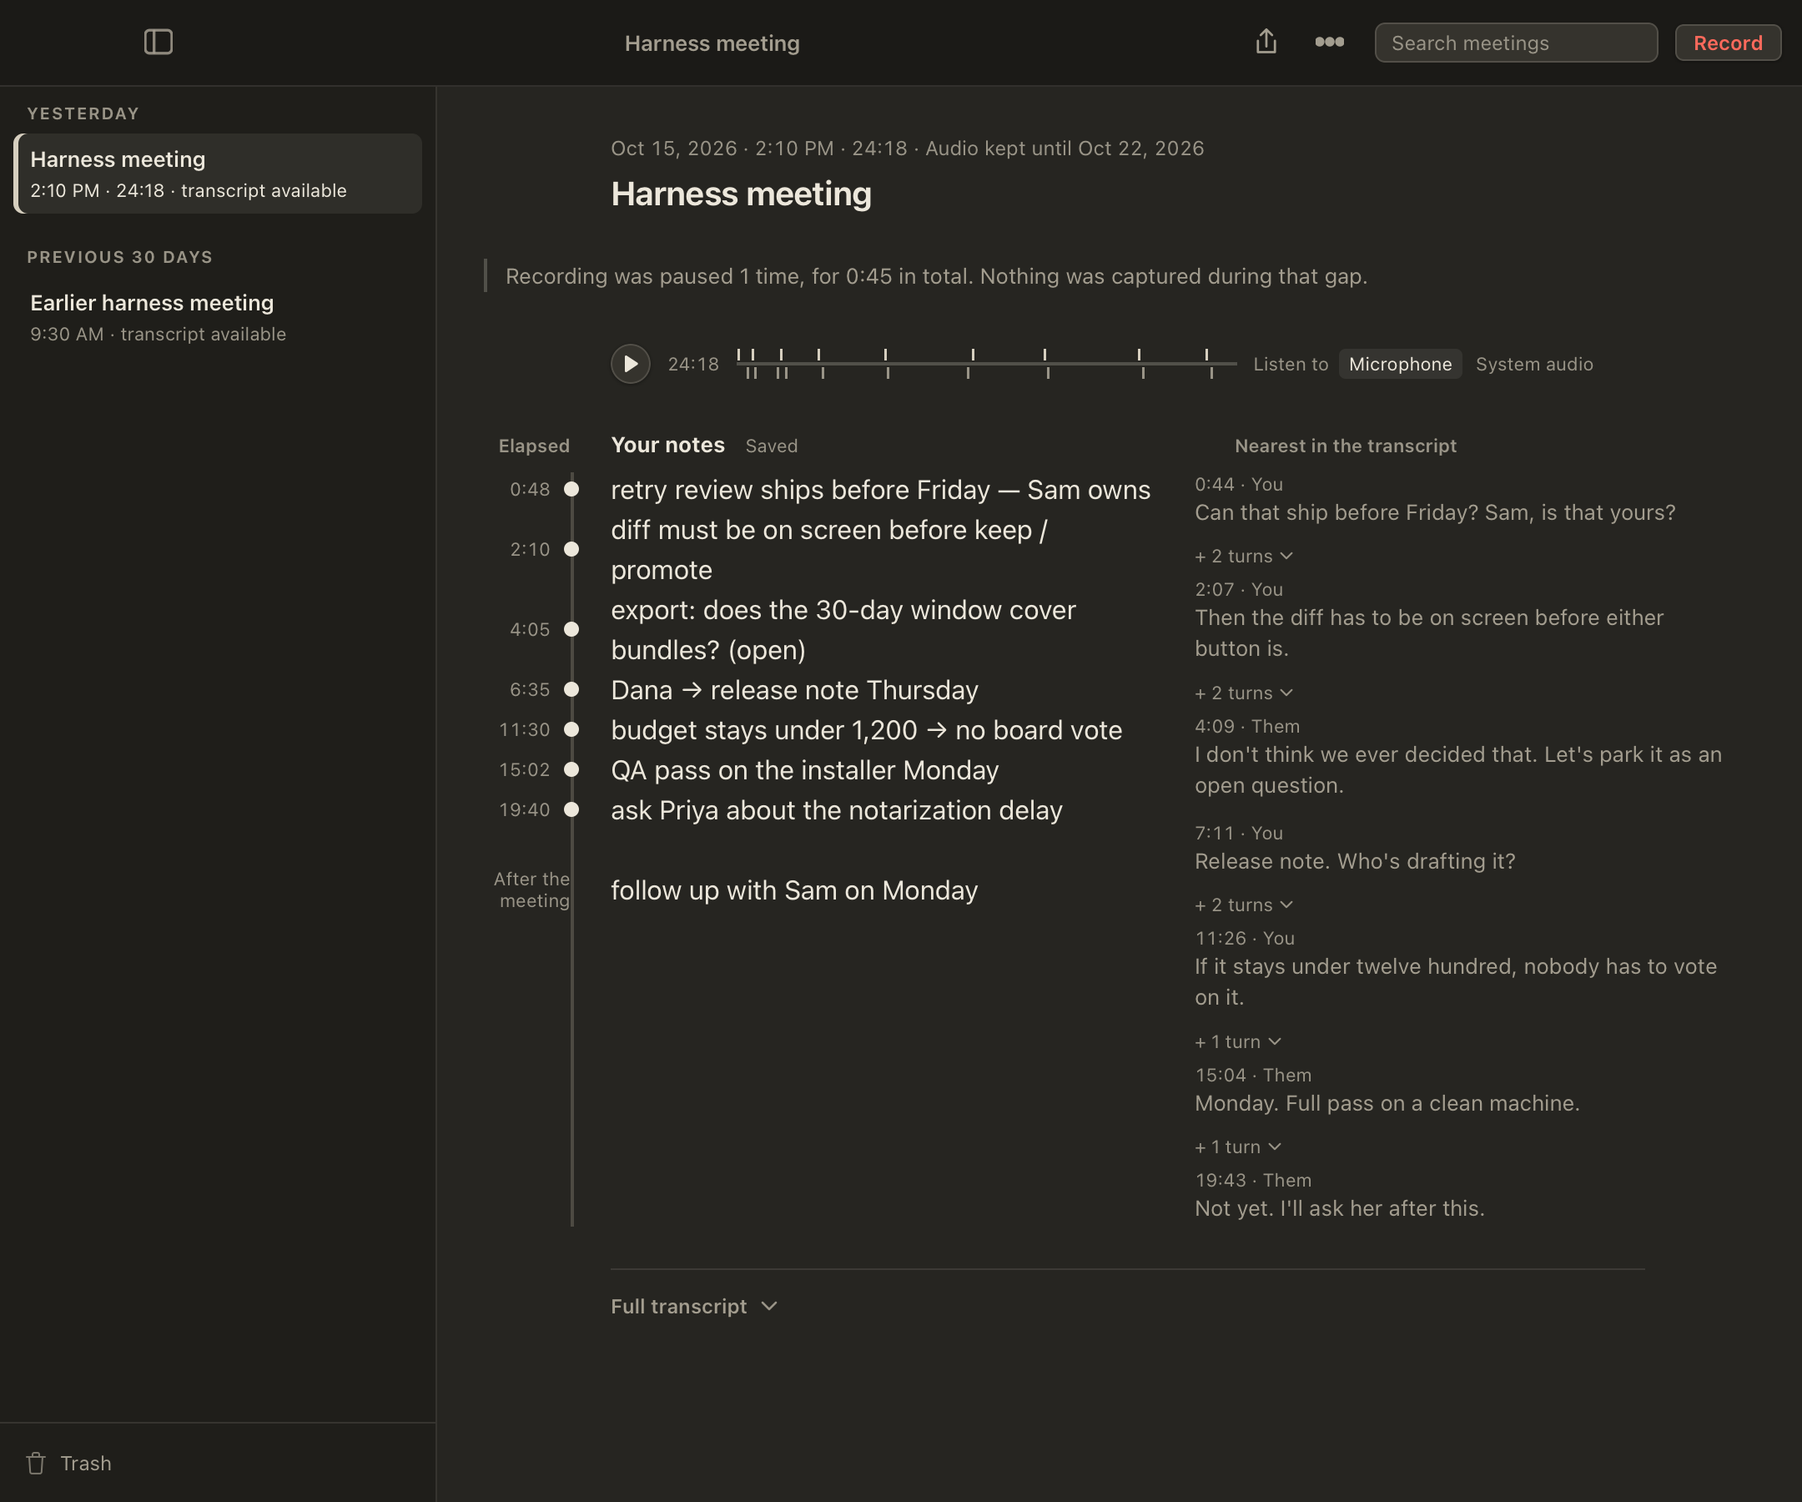
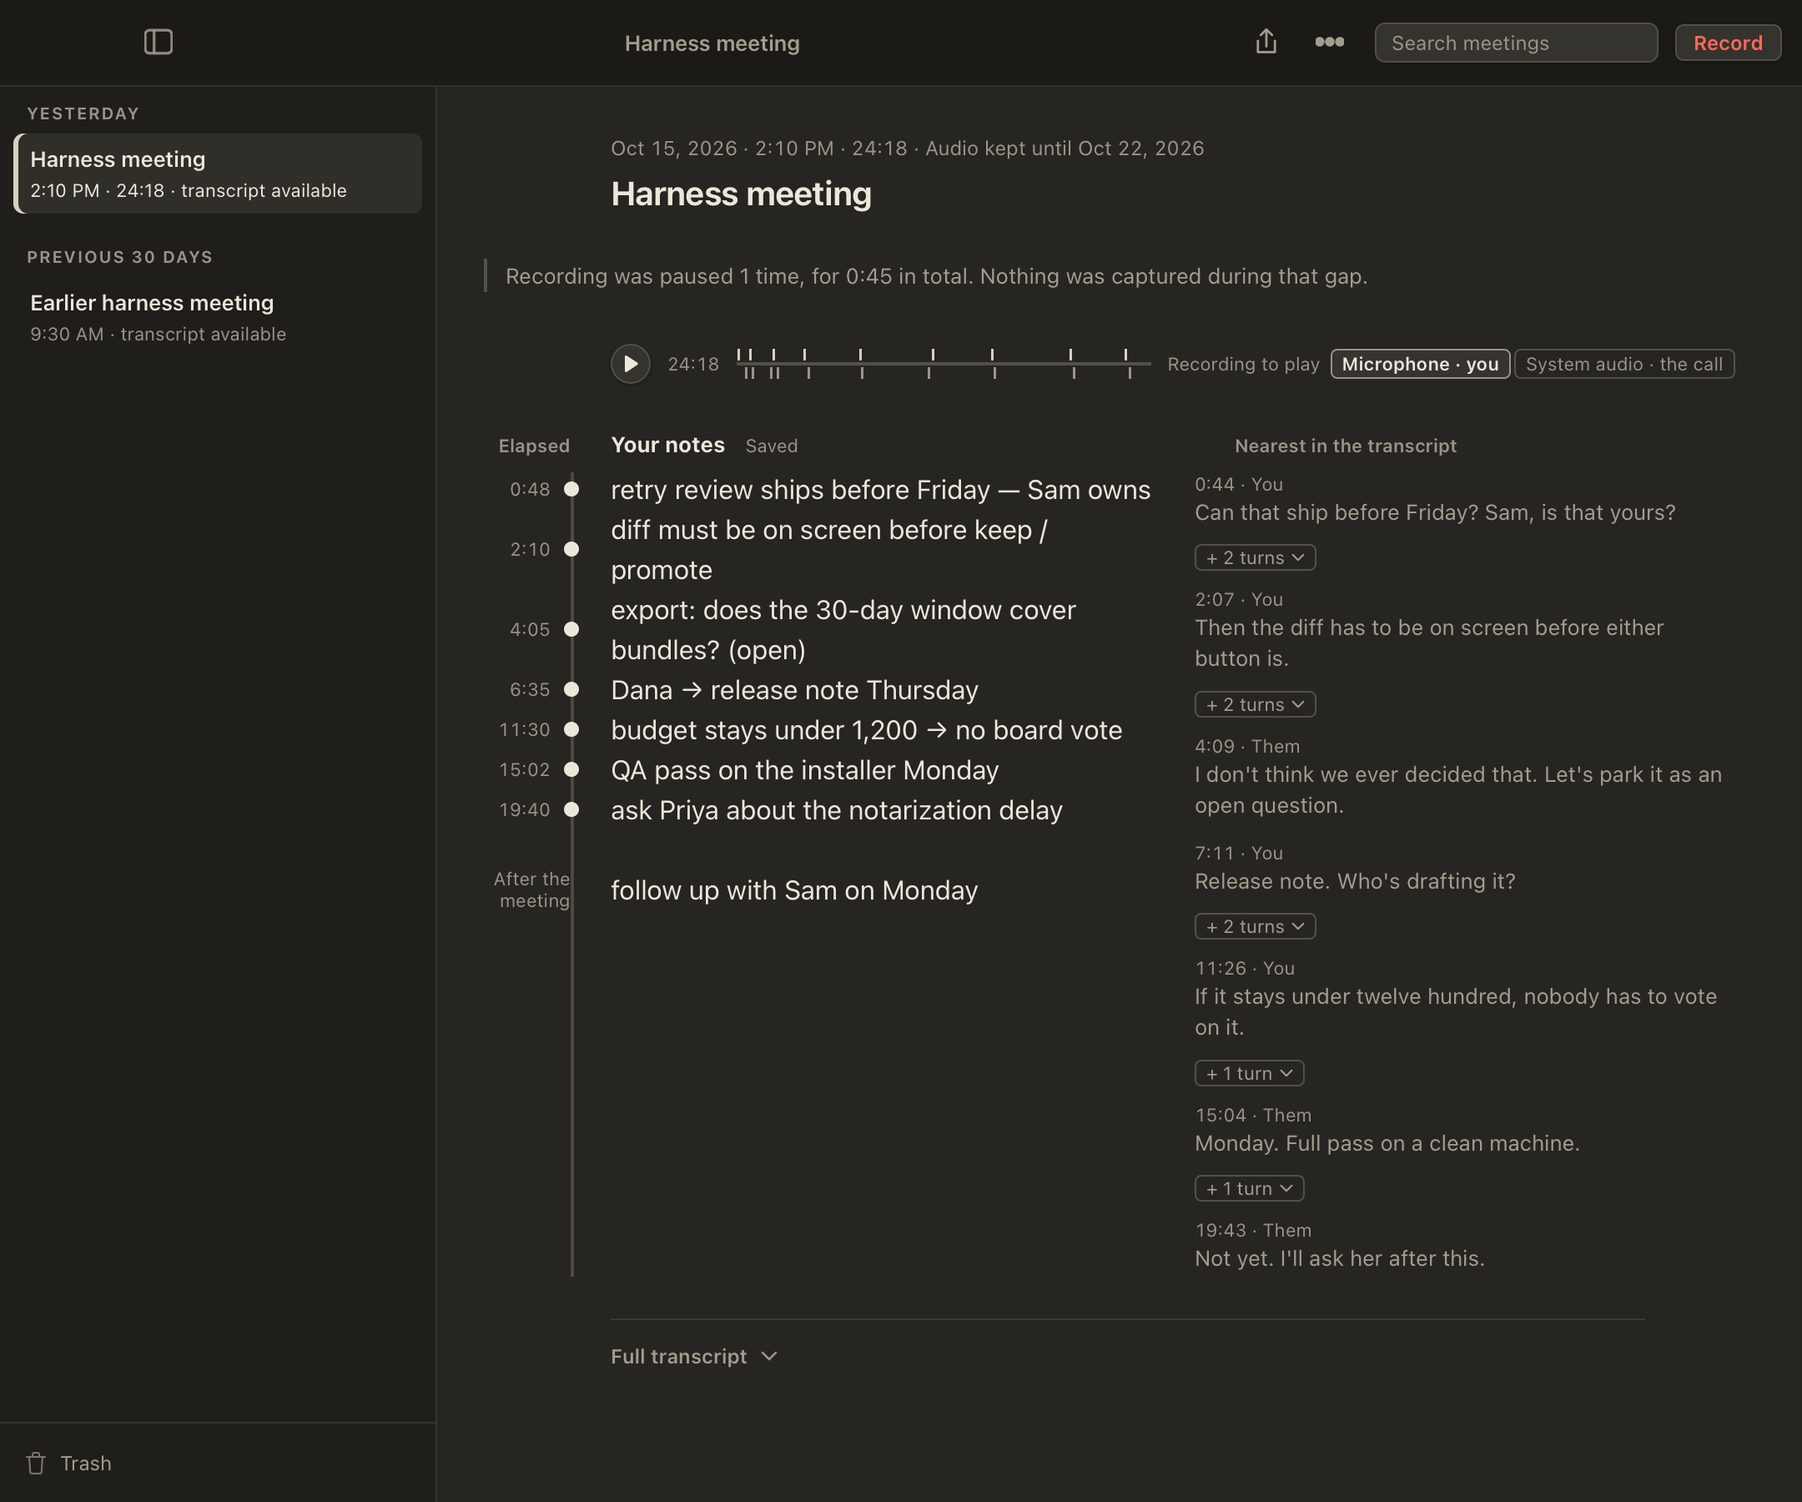
design(mac): what four cold passes changed on the ledger fold and the recording choice, and the record

diff --git a/apps/desktop/ui/main.js b/apps/desktop/ui/main.js
@@ -1667,8 +1667,8 @@ function renderTransport(playback, transcript, row) {
       ${length ? `<span class="transport-time">${escapeHtml(timeLabel(length))}</span>` : ""}
       <div class="transport-track" aria-hidden="true">${ticks.map((tick) => `<i class="transport-tick ${tick.you ? "you" : "them"}" style="left:${tick.percent}%"></i>`).join("")}</div>
       ${sources.length > 1 ? `<span class="transport-source" role="group" aria-labelledby="transport-source-label" title="Yawn kept two recordings of this meeting. Choose which one Play plays.">
-        <span class="transport-source-label" id="transport-source-label">Listen to</span>
-        ${sources.map((control) => `<button class="transport-source-btn" type="button" data-action="set-playback-source" data-source="${escapeHtml(control.source)}" aria-pressed="${control.source === chosen?.source ? "true" : "false"}" title="${escapeHtml(control.source === "microphone" ? "The microphone recording: your voice" : "The system audio recording: everyone else on the call")}">${escapeHtml(control.source === "microphone" ? "Microphone" : "System audio")}</button>`).join("")}
+        <span class="transport-source-label" id="transport-source-label">Recording to play</span>
+        ${sources.map((control) => `<button class="transport-source-btn" type="button" data-action="set-playback-source" data-source="${escapeHtml(control.source)}" aria-pressed="${control.source === chosen?.source ? "true" : "false"}" title="${escapeHtml(control.source === "microphone" ? "The microphone recording: your voice" : "The system audio recording: everyone else on the call")}">${escapeHtml(control.source === "microphone" ? "Microphone · you" : "System audio · the call")}</button>`).join("")}
       </span>` : ""}
       ${playingLabel ? `<span class="caption transport-status" role="status" aria-live="polite">${escapeHtml(playingLabel)}</span>` : ""}
     </div>
@@ -1756,14 +1756,14 @@ function layoutLedgers() {
       const index = Number(turn.dataset.line);
       if (!Number.isFinite(tops[index])) continue;
       let top = tops[index];
-      // The fold sits 4px above its turn; an open fold's turns sit between
+      // The fold sits 8px above its turn, as far as the row above it; an open fold's turns sit between
       // the fold and the turn, so the turn (and every row after it) moves
       // down by their height while the fold stays where it was.
       const key = turn.dataset.fold;
       const fold = key !== undefined ? ledger.querySelector(`.ledger-fold[data-fold="${key}"]`) : null;
       const opened = key !== undefined ? ledger.querySelector(`.ledger-fold-turns[data-fold="${key}"]`) : null;
-      const foldHeight = fold ? fold.offsetHeight + 4 : 0;
-      const openedHeight = opened ? opened.offsetHeight + 8 : 0;
+      const foldHeight = fold ? fold.offsetHeight + 8 : 0;
+      const openedHeight = opened ? opened.offsetHeight + 20 : 0;
       if (top - foldHeight < lastBottom + 8) top = lastBottom + 8 + foldHeight;
       const foldTop = top - foldHeight;
       top += openedHeight;

diff --git a/apps/desktop/ui/styles.css b/apps/desktop/ui/styles.css
@@ -3027,8 +3027,8 @@ html, body, #app {
 }
 
 .transport-source-btn {
-  padding: 2px 6px;
-  border: 0;
+  padding: 1px 6px;
+  border: 1px solid var(--separator-strong);
   border-radius: 4px;
   background: transparent;
   color: var(--label-3);
@@ -3039,6 +3039,8 @@ html, body, #app {
 .transport-source-btn[aria-pressed="true"] {
   color: var(--label);
   background: var(--selection);
+  border-color: var(--label-3);
+  font-weight: 600;
 }
 
 .transport-status {
@@ -3232,14 +3234,13 @@ html, body, #app {
   position: absolute;
   left: 0;
   padding: 0 6px;
-  margin: 0 -6px;
-  border: 0;
+  border: 1px solid var(--separator-strong);
   border-radius: 4px;
   background: none;
   font: inherit;
   font-size: 11px;
   line-height: 14px;
-  color: var(--label-3);
+  color: var(--label-2);
   cursor: pointer;
 }
 
@@ -3259,7 +3260,8 @@ html, body, #app {
 
 .ledger-fold:hover,
 .ledger-fold.open {
-  color: var(--label-2);
+  color: var(--label);
+  background: var(--selection);
 }
 
 .ledger-fold:focus-visible {
@@ -3276,7 +3278,7 @@ html, body, #app {
   display: grid;
   gap: 6px;
   padding-left: 8px;
-  border-left: 1px solid var(--separator);
+  border-left: 2px solid var(--label-3);
   animation: motion-fade-in var(--motion-fast) var(--motion-ease);
 }
 

diff --git a/apps/desktop/ui-harness/still.js b/apps/desktop/ui-harness/still.js
@@ -13,4 +13,8 @@ for (let index = 0; index < openFolds; index += 1) {
   fold.click();
   await sleep(250);
 }
+// The runner's page is hidden (document.visibilityState), so CSS animations
+// and transitions never advance there; finish them so the frame shows the
+// settled state a visible window reaches in 120 ms.
+if (openFolds) document.getAnimations().forEach((animation) => animation.finish());
 return { ok: true, errors: window.__errors || [] };

diff --git a/DIRECTION.md b/DIRECTION.md
@@ -114,6 +114,7 @@ did not produce (brief amendment, 2026-09-01).
 
 | Date | Surface | Strings | Verdict |
 |---|---|---|---|
+| 2026-10-16 | Ledger fold expansion and the transport's recording choice (`ledgerFoldPresentation`, `renderNoteLedger`, `renderTransport`) | Fold, visible: "+ N turns" / "+ 1 turn" (unchanged, with a chevron that turns when open). Fold, VoiceOver: a disclosure named "N more turns" / "1 more turn"; its opened turns are a group with the same name. Transport: visible group label "Recording to play"; chips "Microphone · you" / "System audio · the call" (were "Microphone" / "System audio"); group title "Yawn kept two recordings of this meeting. Choose which one Play plays."; chip titles "The microphone recording: your voice" / "The system audio recording: everyone else on the call" | Agent-drafted; not yet read by the operator. Cold passes in `docs/evidence/screen-reviews/mac-ledger-fold-2026-10-16-cold.md`. Tests assert the fold's state, range, key and Escape order, not this wording |
 | 2026-10-16 | Rail Mac wave, slice 3 (`renderEmptyPane`, `renderCapturePane`, `renderNoteLedger`, `meetingRecoveryPresentation`, `meetingNotePresentation`): the first-run page, the live page's title and meta, the ledger's after-Stop divider and interrupted-stop mark, the transcript-only and summary-failed note-area details | First run: "Record a meeting" / "Yawn records the call and your own notes, keeps them on this Mac, and makes a transcript when you stop." / "⌘R, or the Record button". Live page: title "Meeting · <date>", meta "Started <time>". Ledger: divider "After the meeting"; interrupted stop mark "Recording stopped here" at the recording's length. Note area, transcript only: "Your notes and the transcript are here." Note area, no draft created: "Your notes and the transcript are here; no draft will be made." (replaces "Automatic note generation is no longer available. Your notes and transcript remain available." from the 2026-09-30 row, since the Rail page states what the meeting has, not what the product no longer does). The attention surface's "Needs attention" eyebrow is removed; its headline and detail carry the state. Ledger head row, from the cold review: "Elapsed" over the rail's times, "Nearest in the transcript" over the turn column; the stop mark's sentence became its title attribute | Agent-drafted; not yet read by the operator. Tests assert the states, roles and actions, and the two note-area details by their wording now that they are listed here |
 | 2026-10-09 | In-app updates (`updater.rs`, `updatePresentation`, `updateAvailableNotice`): Settings › Updates row, the automatic-check switch and its disclosure, the main-window update notice, the app menu item, and the privacy row | Group: "Updates" / "New versions of Yawn, from the Yawn release server." / button "Check now". Row title: "Yawn <version>". Status pills: "Checking", "Up to date", "Downloading", "Installing", "Check failed", "Not installed", "Not checked". Details: "Asking the Yawn release server for the newest version." / "This is the newest version of Yawn." / "Yawn <v> is available. Updating closes and reopens Yawn. Your meetings and notes stay as they are." / "Yawn <v> is available. <reason>" / "Downloading Yawn <v>… <n>%. When it finishes, Yawn closes and reopens. If a recording is running by then, Yawn keeps recording and doesn’t install." / "Installing Yawn <v>. Yawn will close and reopen." / "<failure> You’re still on Yawn <current>." / "Yawn hasn’t checked for a newer version since it opened." Buttons: "Update and restart", "Try again". Reasons: "Wait for Yawn to finish starting." / "Finish the current recording first." / "Wait for transcription to finish." / "Wait for the model download to finish." / "Wait for speaker analysis to finish." / "Wait for the current task to finish." Switch: "Check for updates automatically". Disclosure, on: "Once a day, Yawn downloads a small file from the release server that names the newest version. It sends no meeting data or account details; like any download, the server can see this Mac’s internet address." Off: "Automatic checks are off. Yawn contacts the release server only when you choose Check now." Privacy row now opens "Nothing from your meetings." (was "Nothing.") and adds "Its only automatic connection is the optional update check described under Updates." Notice: "Yawn <v> is available." with "Update…". Menu: "Check for Updates…" | Agent-drafted; the operator chose a daily check with an off switch on 2026-10-09. Cold pass 1 revise (failed-check pill, disclosure not following the switch, unexplained disabled controls while downloading, "Nothing" followed by an exception), all four changed; pass 1 also exposed that the first disclosure ("carries only Yawn’s version number") was untrue, since the check sends no version at all. Pass 2 result in `docs/evidence/screen-reviews/in-app-updater-2026-10-09-cold.md`. Tests assert state, action, disabled state and that the disclosure follows the switch, not this wording |
 | 2026-10-07 | Meeting still being transcribed (`transcribing` note state, row `transcriptPending`): a just-recorded meeting opened before its transcript exists. Note-area status, document caption, sidebar row label | Status: "Your audio is saved on this Mac and is being transcribed. The transcript will appear here when it’s ready." Caption: "Transcribing". Row label: "transcribing". Backend message: "Your audio is saved on this Mac and is being transcribed. The transcript will appear here when it's ready." | Status sentence follows the operator's example. One cold pass (`docs/evidence/screen-reviews/transcribing-meeting-2026-10-07-cold.md`) said revise: add that the audio is saved on this Mac; the operator accepted that on 2026-10-07 and the status now says it. Tests assert the state, row flag, role and that no "remains" claim appears, not this wording |

diff --git a/docs/evidence/screen-reviews/mac-ledger-fold-2026-10-16-cold.md b/docs/evidence/screen-reviews/mac-ledger-fold-2026-10-16-cold.md
@@ -1,0 +1,79 @@
+---
+surface: mac-ledger-fold (the page after a meeting: the ledger's fold rows closed and opened, and the transport's recording choice)
+kind: cold
+build: the commit that adds this record (frames in mac-ledger-fold-2026-10-16/harness are from its tree); passes 1 to 4 judged the trees noted per pass
+device: WKWebView harness, 1080 by 900 at 2x, stub data, both appearances (not the installed build)
+reviewer: four fresh subagents (Claude), one per pass, each with the frames and the job questions only
+implementer: the session that built it (Claude), not any reviewer
+cold: true
+states: [ledger-light, ledger-dark, ledger-fold-light, ledger-fold-dark]
+verdict: accept (folds closed); revise (folds opened; the recording choice)
+---
+
+# Yawn for Mac, ledger fold expansion and the recording choice — cold review, 2026-10-16
+
+**Question.** The Rail wave's cold review (`mac-rail-2026-10-16-cold.md`)
+said "+ N turns" did not read as openable and the Microphone / System audio
+chips were unexplained. Built from `DESIGN.md` (Components, Fold row:
+collapsed, expanded; Accessibility, "a fold is a disclosure named '7 more
+turns'"): does the fold read as something to open, do its turns read as its
+contents when open, and can a person tell what the recording choice does?
+
+**Captures.** `mac-ledger-fold-2026-10-16/` with its `MANIFEST.md`: four
+frames, the ledger with folds closed and with its first two folds opened, in
+both appearances. Harness frames from stub data, not the installed build;
+large text and increased contrast were not captured.
+
+**Passes.** Each pass was a fresh reviewer, neutral frame names, the four
+job questions, no rationale and no earlier pass.
+
+| Pass | Tree | Closed | Opened | What it found |
+|---|---|---|---|---|
+| 1 | 8fa5d68 | revise | revise | Fold rows read as captions, not controls; opened turns' left rule too faint and the gap after a group too tight; "Listen to [Microphone] [System audio]" unexplained, the unselected chip not visibly a button |
+| 2 | after pass-1 fixes | revise | revise | Closed and open used different symbols ("+ … ⌄" vs "− … ⌃"); the closed row still plain text while the open one was a pill; the pill hung left of the column; group end still tight; selected chip faint; chips do not say what each recording holds |
+| 3 | after pass-2 fixes | revise | revise | Fold pills now read as buttons; the closed pill crowded the line below it, so it read as that line's heading; the recording choice still did not say what each track contains |
+| 4 | after pass-3 fixes | **accept** (pills read as openable; low pill contrast in dark) | revise | Open: the label stays "+ N turns", only the chevron turns; the left rule faint in light; the frame crops the lengthened column. Recording choice: now "suggests which recorded track plays", the selected state weak in dark |
+
+**Changed, by pass.**
+
+- After pass 1: fold label Label 2, open fold filled; the opened turns' rule
+  2px; 14px after an opened group; the chips outlined so both read as
+  buttons; the group label "Recording to play".
+- After pass 2: one label, "+ N turns", in both states, with the chevron
+  turning (pass 2 faulted the changing sign); the fold a bordered pill in
+  both states, flush with the column; 20px after an opened group; the
+  selected chip bordered and bold.
+- After pass 3: the pill 8px from the line below, as far as from the line
+  above; the chips "Microphone · you" and "System audio · the call".
+- After pass 4 (not re-reviewed): the opened turns' rule in Label 3.
+
+**Not changed, and why.**
+
+- Pass 4's "the label never changes" is the opposite of pass 2's
+  objection to a changing sign. The chevron carries the state and VoiceOver
+  hears `aria-expanded`; the operator can choose a different open label.
+- The frame cropping the opened column is the window: the page scrolls.
+- Recurring items outside this change, as in the Rail review: the turn
+  column not aligned row for row with the notes (DESIGN.md: rows never
+  reflow the note, so a pushed turn moves away from its line), "Nearest in
+  the transcript" unexplained, small grey type in dark, "After the meeting"
+  wrapping in the gutter.
+
+**What was removed, combined, demoted or hidden.** Nothing removed. The fold
+row became a button in place of a plain label; the folded turns are hidden
+until asked for, as before, and now reachable in place instead of only in
+the full transcript. The chips gained a visible label and a word each; no
+banner was added.
+
+**Mechanical checks.** `npm run test:ui` 175 pass. `run.sh fidelity` passes
+in light and dark with 34 checks, 8 of them new: it presses a fold and checks
+it is a closed then open disclosure (`aria-expanded`, `aria-controls`), keeps
+focus, shows its turns under it and above the next turn row, that the turn
+column has no overlap, that the note and its line positions do not move, and
+that Escape closes it and returns focus. With the push removed it failed
+(`next-turn-pushed-below` −109, `turn-column-no-overlap` 1), so it can see
+the defect.
+
+**Owed.** The installed-build pass with large text and increased contrast,
+as for the Rail wave; the operator's read of the new strings (DIRECTION.md,
+content reads, 2026-10-16).

diff --git a/docs/evidence/screen-reviews/mac-ledger-fold-2026-10-16/MANIFEST.md b/docs/evidence/screen-reviews/mac-ledger-fold-2026-10-16/MANIFEST.md
@@ -1,0 +1,27 @@
+# Ledger fold expansion and recording choice — frames, 2026-10-16
+
+Rendered by the harness's WKWebView runner from `apps/desktop/ui` against the
+`ledger` stub (invented data), 1080 by 900 at 2x. These are not captures of
+the installed build.
+
+| File | State | Command (from `apps/desktop`) |
+|---|---|---|
+| `harness/ledger-light.png` | folds closed, light | `HARNESS_APPEARANCE=light HARNESS_CAPTURE_DIR=… bash ui-harness/run.sh still ledger` |
+| `harness/ledger-dark.png` | folds closed, dark | `HARNESS_APPEARANCE=dark … still ledger` |
+| `harness/ledger-fold-light.png` | first two folds opened by pressing them, light | `HARNESS_APPEARANCE=light … still-fold` |
+| `harness/ledger-fold-dark.png` | first two folds opened, dark | `HARNESS_APPEARANCE=dark … still-fold` |
+
+Neutral names given to the reviewers, per pass:
+
+| Pass | closed light | closed dark | open light | open dark |
+|---|---|---|---|---|
+| 1 | f4 | f2 | f1 | f3 |
+| 2 | g3 | g1 | g2 | g4 |
+| 3 | h2 | h4 | h3 | h1 |
+| 4 | k1 | k3 | k4 | k2 |
+
+The runner's page is hidden (`document.visibilityState` is `hidden`), so CSS
+animations never advance there; `still-fold` finishes them before the frame.
+Pass 1's frames were captured before that fix and happened to settle; the
+first pass-2 capture did not (the opened turns at opacity 0), was caught by
+the implementer before any reviewer saw it, and was re-captured.
